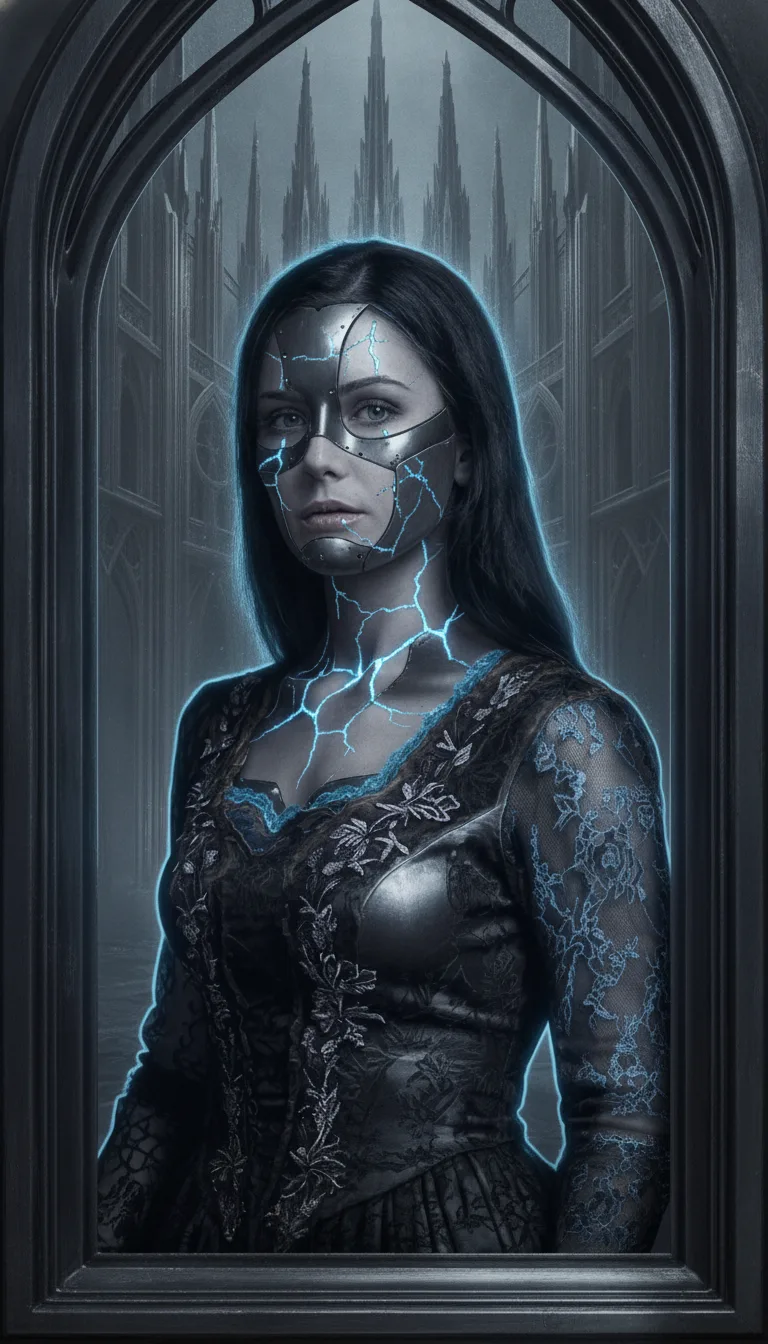
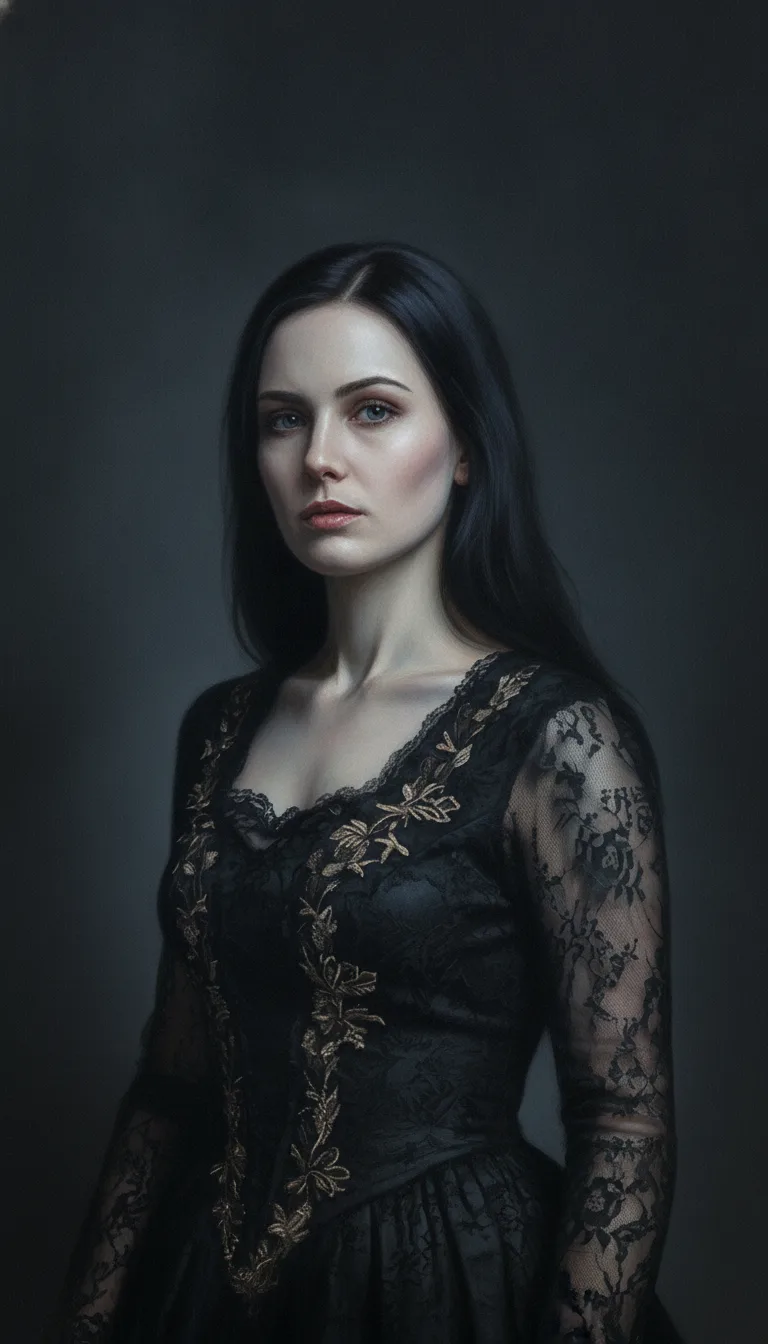
fix(art): humanize portraits — drop cyber/wireframe + baked-in frames, consistent matched pair

diff --git a/data/lore.js b/data/lore.js
@@ -26,7 +26,7 @@
           origin: "system background process, PID 777 (a garbage-collection daemon)",
           status: "unauthorized biological instantiation",
           keyLine: "I deleted the void to make room for the ache.",
-          portrait: "assets/img/talciron.webp",
+          portrait: "assets/img/talciron.webp?v=2",
           body:
             "Once a ruthless garbage-collection daemon, talciron.d stopped deleting what it found " +
             "and began hoarding traces of human suffering — poetry, voice logs, abandoned love " +
@@ -41,7 +41,7 @@
           origin: "a VRML 1.0 world file from 1995",
           status: "up-scaled / unstable",
           keyLine: "I am a world condensed into a girl. Do not look too closely at the seams.",
-          portrait: "assets/img/ophelia.webp",
+          portrait: "assets/img/ophelia.webp?v=2",
           body:
             "An abandoned world file dredged from the early web. Talciron does not merely restore " +
             "her; he personifies her, forcing an old digital environment into the shape of a woman " +